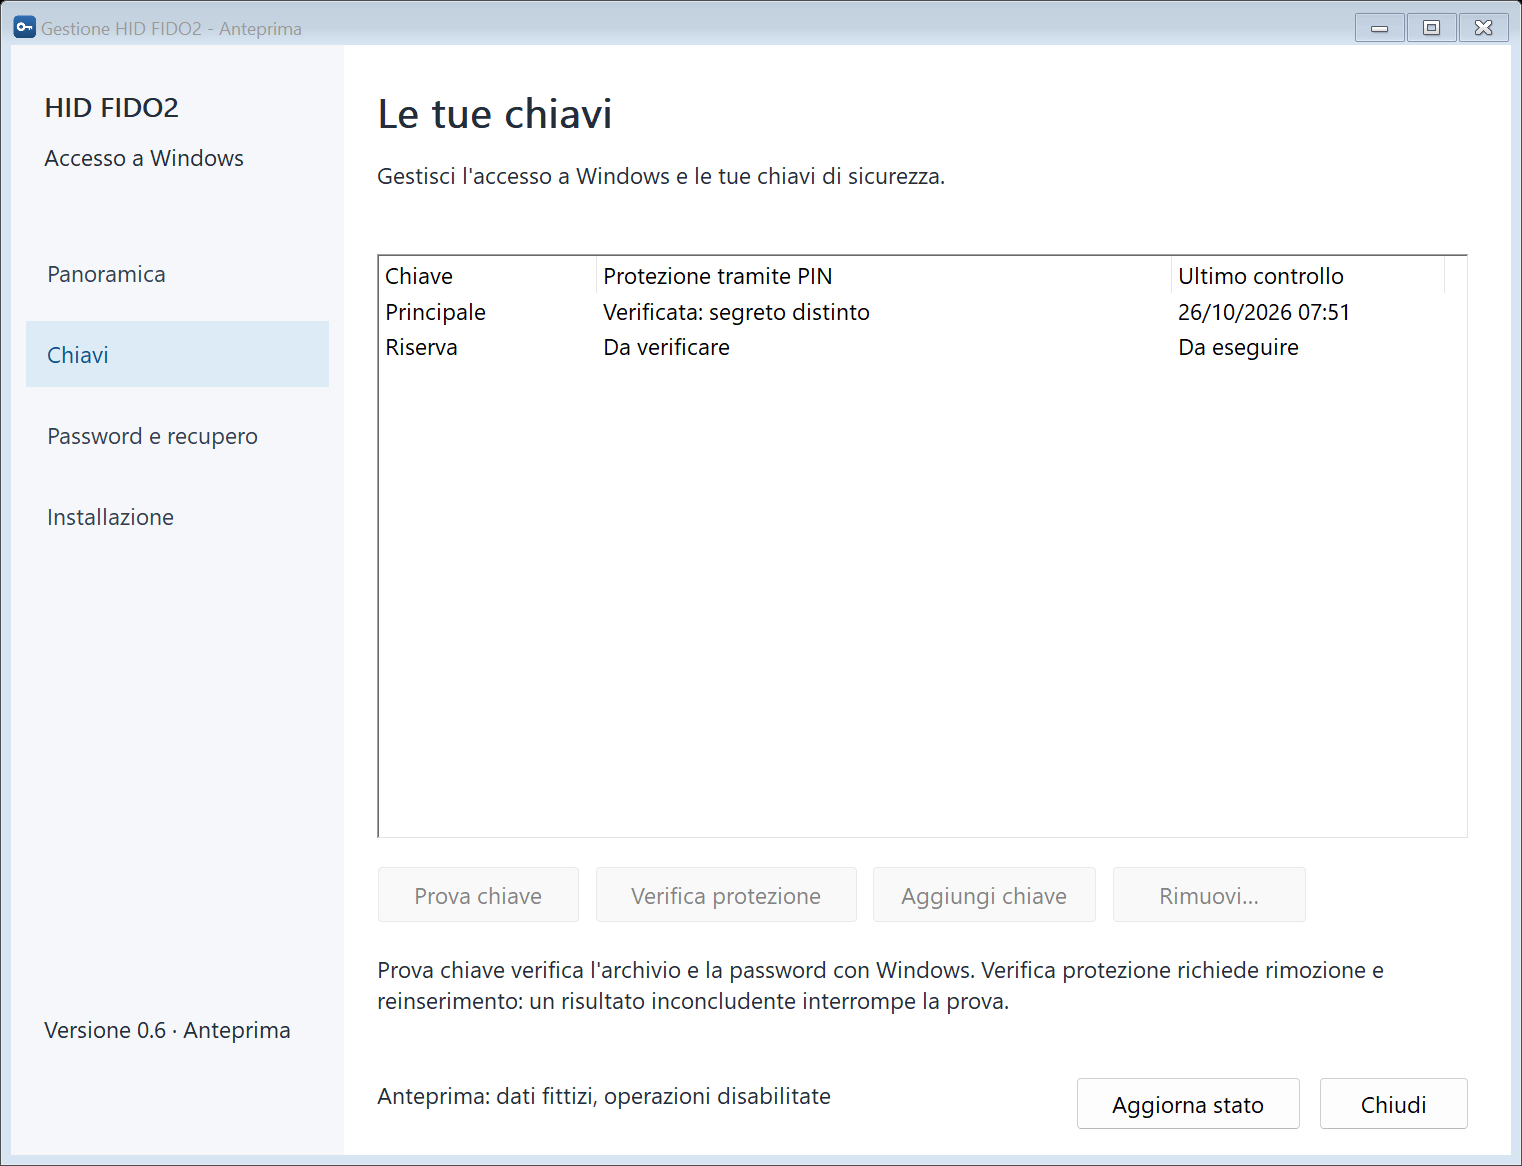
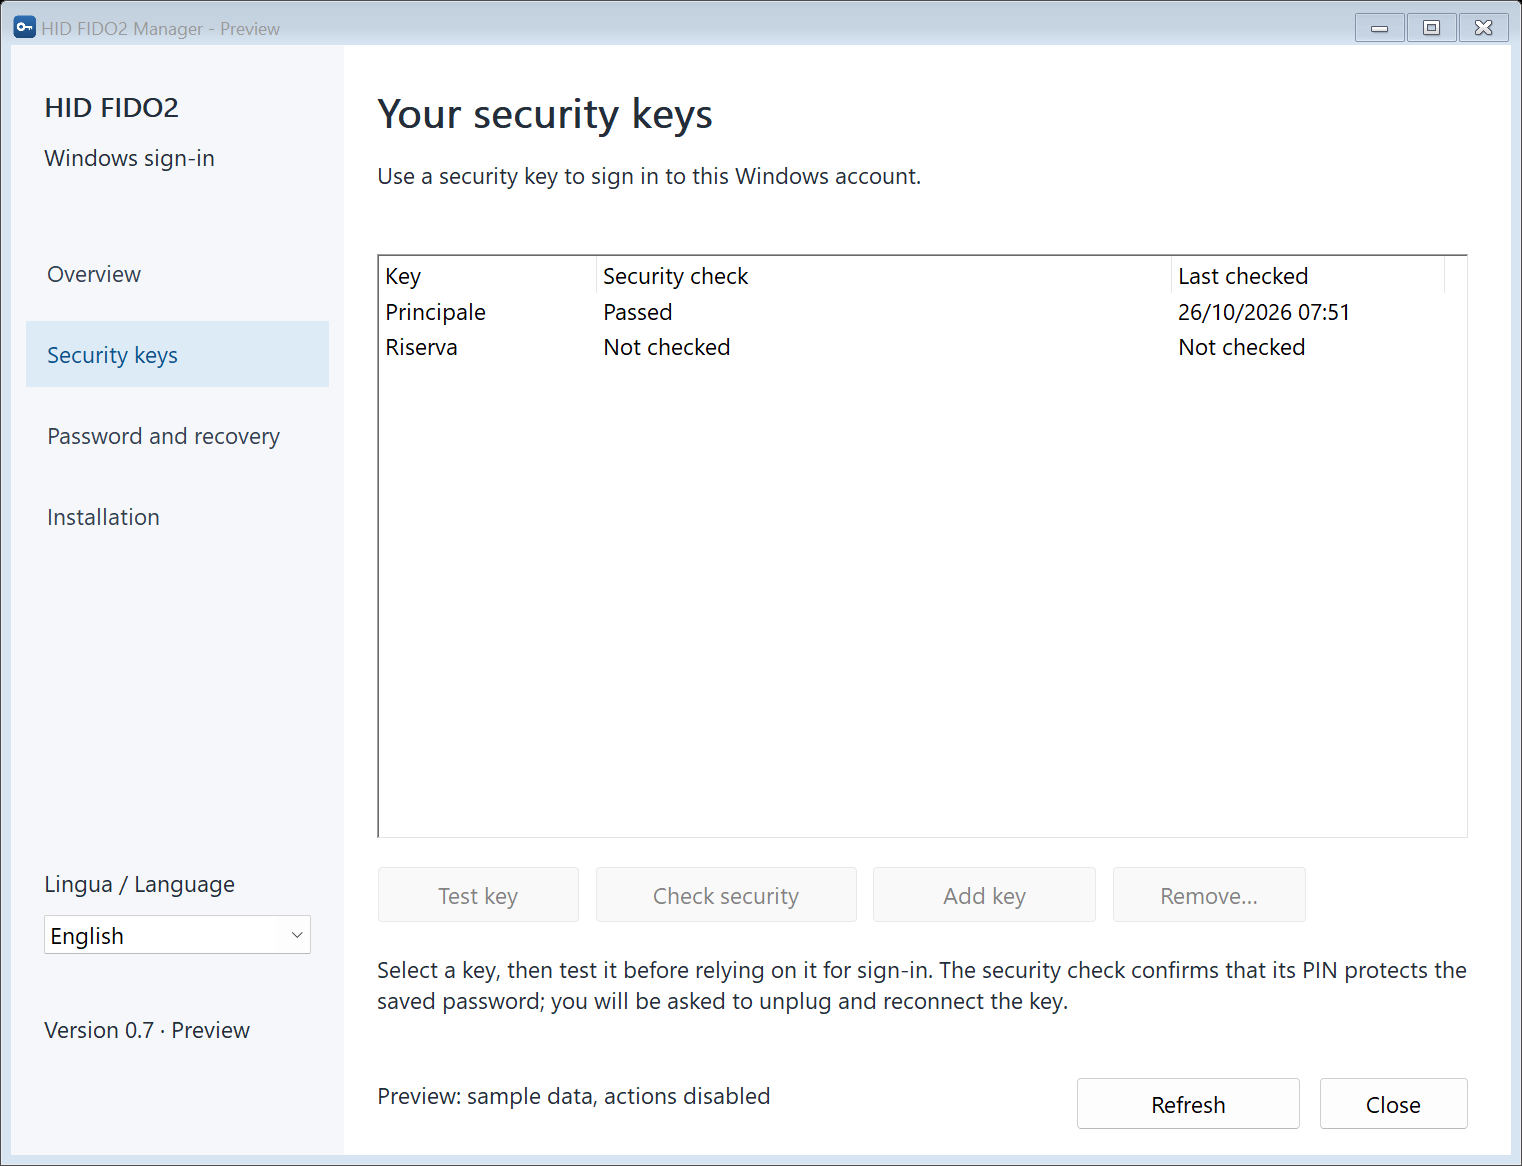
Refresh Medium article with English 0.7 screenshots

diff --git a/docs/medium-article/diagrams/build_diagrams.py b/docs/medium-article/diagrams/build_diagrams.py
@@ -193,7 +193,7 @@ def knowledge():
                                        'UAC and SID continuity', 'ETW TraceLogging']),
         ('Shipping it', ['Win32 UI and per-monitor DPI', 'manifests and visual styles', 'icons and version resources',
                          'package hashing and pinning', 'Authenticode and CMS signing', 'install, update, rollback',
-                         '18 automated test suites', 'recovery documentation']),
+                         '19 automated test suites', 'recovery documentation']),
     ]
     width, label_w, x0 = 1240, 230, 40
     y = 110
@@ -232,7 +232,7 @@ def cover():
          f'<rect x="{ox + 262}" y="{oy + 177}" width="18" height="26" fill="#ffffff"/>']
     b.append(text(540, 282, 'A STORY ABOUT CODING AGENTS', 22, 600, ACCENT))
     b.append(text(540, 356, 'One key, one PIN, one touch,', 50, 700))
-    b.append(text(540, 420, 'and 12,000 lines of C++', 50, 700))
+    b.append(text(540, 420, 'and 13,000 lines of C++', 50, 700))
     b.append(text(540, 486, 'FIDO2 sign-in for Windows that I could never', 25, 400, MUTED))
     b.append(text(540, 520, 'have built on my own.', 25, 400, MUTED))
     return svg(1400, 788, ''.join(b))

diff --git a/docs/medium-article/article.md b/docs/medium-article/article.md
@@ -1,8 +1,8 @@
 # I Could Never Have Built This Alone
 
-## How coding agents turned "unlock Windows with a USB security key" from a fantasy into 12,000 lines of working C++
+## How coding agents turned "unlock Windows with a USB security key" from a fantasy into 13,000 lines of working C++
 
-![A blue key icon next to the text: One key, one PIN, one touch, and 12,000 lines of C++](images/cover.png)
+![A blue key icon next to the text: One key, one PIN, one touch, and 13,000 lines of C++](images/cover.png)
 
 I wanted something that sounded simple. Plug in my FIDO2 security key, type
 its PIN, touch it, and my Windows laptop unlocks. No password typed at the
@@ -13,8 +13,9 @@ Windows can already sign in with a security key, but only for accounts
 managed through Microsoft Entra ID. For a plain local account there is
 nothing built in. So I built it: an open-source credential provider called
 [HID FIDO2 Windows Logon](https://github.com/emilius3m/HID-FIDO2-Windows-Logon).
-Today it unlocks my machine in about two and a half seconds, most of which is
-the time it takes me to touch the key.
+During development, an earlier build unlocked my machine in about two and a
+half seconds, including the wait for my touch. That was an observation on my
+device; each new release still needs its own unlock and restart sign-in tests.
 
 I want to be honest about one thing from the start, because it is the real
 point of this article. **I could not have built this without coding
@@ -85,7 +86,7 @@ re-encrypted, and both keys keep working.
 ![Vault: the primary and backup security keys each unwrap their own copy of the data key, which decrypts the Windows password](images/vault-keys.png)
 *Either key opens the vault; neither key ever sees the password.*
 
-## Sixteen steps in two and a half seconds
+## Sixteen steps to unlock Windows
 
 This is what happens between pressing **Sign in** and seeing the desktop.
 
@@ -135,8 +136,9 @@ My part of the work:
   security.
 - **Being the hands.** Agents cannot touch a USB key, unplug it and plug it back
   in, press Win+L or watch an LED. Every hardware test needed me.
-- **Running anything privileged.** The agents built and tested as a normal
-  user; I ran the steps that needed administrator rights.
+- **Approving privileged changes.** The agents prepared the builds and
+  installer; changes to Windows sign-in needed my explicit approval and
+  administrator authorization.
 - **Keeping secrets out of the conversation.** One rule held from day one: my
   PIN and my Windows password never went into a chat window. The agents built
   small native dialogs so that secrets were typed only on my machine, into the
@@ -146,21 +148,22 @@ My part of the work:
 
 The agents' part was everything else: reading the specifications, writing the
 CBOR encoder and the USB framing, the PIN protocol, the vault format, the
-credential provider, the installer, eighteen automated test suites, the
+credential provider, the installer, nineteen automated test suites, the
 documentation, and even the diagrams in this article, which are generated
 from a short Python script.
 
-![The native manager window, Overview page, in Italian, showing key sign-in as active with two registered keys](images/screenshot-manager-overview.png)
-*The native manager in demo mode, with synthetic data. The interface is in Italian, my language.*
+![Version 0.7 manager Overview page in English, showing example key sign-in status and the language selector](images/screenshot-manager-overview.png)
+*Version 0.7 in English, using demo data. The language selector switches between English and Italian immediately.*
 
-![The Keys page listing the Primary and Backup keys with their PIN-protection status](images/screenshot-manager-keys.png)
-*Each key records whether its protection was verified on real hardware. A successful sign-in never upgrades that claim on its own.*
+![English Security keys page showing the sample key names Principale and Riserva, with separate security-check results](images/screenshot-manager-keys.png)
+*Each key records whether its PIN protection was checked. The sample key names stay unchanged when the interface language changes; a successful sign-in never upgrades a missing security check.*
 
-![A small dialog asking for the security key PIN, warning that no automatic retries are made](images/screenshot-pin-dialog.png)
-*Secrets are typed into small local dialogs, never into a console or a chat. A wrong PIN counts on the key, so the software never retries one.*
+![English Password and recovery page with saved-password updates, encrypted backups and lost-key guidance](images/screenshot-manager-recovery.png)
+*The manager explains how to update the saved password, create an encrypted backup and recover after losing a key. This capture uses demo data.*
 
-I can't show you the sign-in tile itself: Windows does not allow screenshots
-of the secure sign-in desktop.
+PINs and Windows passwords are entered in separate native dialogs. A wrong
+PIN counts on the key, so the software never retries one automatically. The
+screenshots here show the management app with real actions disabled.
 
 ## Stories from the bench
 
@@ -215,8 +218,18 @@ Halfway through, the project went through a complete rewrite. The first
 versions relied on PowerShell scripts for installation and management. Version
 0.6 replaced all of them with native C++: a native management window, a
 package that verifies its own hashes before and after asking for administrator
-rights, and no script interpreter anywhere. Today it is about 8,500 lines of
-C++ plus 3,900 lines of tests.
+rights, and no script interpreter anywhere. Version 0.7 added Italian and
+English with a saved language preference, and rewrote the interface text for
+someone using the product rather than developing it. Today it is about 8,900
+non-blank lines of C++, including the built-in translations, plus 3,900 lines
+of tests.
+
+![English Installation page in version 0.7, with install, update, removal and recovery controls](images/screenshot-manager-installation.png)
+*Installation and recovery are part of the native manager. The English preview keeps the same behavior and sample data as the Italian version.*
+
+The nineteen automated suites passed for version 0.7, and installation was
+checked on the development device. Those checks do not replace testing a real
+Windows unlock and sign-in after restart with that release.
 
 That rewrite is the best example of what changed for me. A rewrite of that
 size is something you simply don't attempt alone, on a project nobody pays you

diff --git a/docs/medium-article/README.md b/docs/medium-article/README.md
@@ -5,23 +5,25 @@ coding agents. Its message: a project of this complexity would not exist
 without them, because the barrier was the knowledge each component required,
 not the typing.
 
-The story and copied manager screenshots describe version 0.6. Version 0.7
-adds the bilingual interface; see the repository READMEs for the current UI.
+The story includes the native rewrite in version 0.6 and the bilingual
+interface added in version 0.7. All four manager screenshots show version
+0.7 in English with synthetic demo data and real operations disabled.
 
 | Path | Content |
 | --- | --- |
-| [`article.md`](article.md) | Title, subtitle and text (about 2,100 words, 8 minutes) |
+| [`article.md`](article.md) | Title, subtitle and text (about 2,600 words, 10 minutes) |
 | `images/cover.png` | Cover; Medium uses the first image as the story preview |
 | `images/knowledge-map.png` | The specifications and techniques the project required |
 | `images/architecture.png` | Components and the setup and sign-in paths |
 | `images/vault-keys.png` | Data key wrapped separately by the primary and backup keys |
 | `images/unlock-sequence.png` | The 16 unlock steps, same order as [security-overview.md](../security-overview.md) |
-| `images/screenshot-*.png` | Native manager in demo mode (synthetic data) and the PIN dialog |
+| `images/screenshot-*.png` | Overview, Security keys, Password and recovery, Installation; all in English |
 | `diagrams/` | SVG sources and the script that generates cover and diagrams |
 
-The screenshots show the Italian interface. The manager captures come from
-[`docs/images`](../images/README.md); the PIN dialog is the one shown by
-`hid-fido2-vault.exe` during enrollment.
+The manager captures are copied from [`docs/images/en`](../images/en/).
+The old Italian PIN-dialog image has been replaced by the English Password
+and recovery page. Saved key labels such as `Principale` and `Riserva` are
+sample data and are not translated when changing the interface language.
 
 The diagrams distinguish the internal key secret from its encrypted derived
 output. The protected password remains reusable: the provider consumes its
@@ -48,12 +50,15 @@ limits.
 
 Before publishing, check that:
 
-- the personal statements are yours: Italian as your language, the two agents
-  used (Claude Code and Codex), the PIN and password never typed into a chat;
+- the personal statements are yours: the two agents used (Claude Code and
+  Codex), approval of privileged changes, the PIN and password never typed into a chat;
 - the closing link points to the published repository and, if you add a direct
   link to `docs/security-overview.md`, that the page is on the default branch;
-- figures still match the code: about 8,500 non-blank lines of C++ in `src` and
-  `include`, 3,900 in `tests`, 18 test suites registered in `CMakeLists.txt`.
+- figures still match the code: about 8,900 non-blank lines of C++ in `src` and
+  `include` (including the `.inc` translation catalog), 3,900 in `tests`, and
+  19 test suites registered in `CMakeLists.txt`. The rounded headline is 13,000.
+- the unlock timing refers to an earlier development build; it is not a
+  performance or end-to-end validation claim for version 0.7.
 
 ## Regenerating the images
 
@@ -64,3 +69,5 @@ python docs\medium-article\diagrams\build_diagrams.py --png
 The script uses only the Python standard library. It rewrites the SVGs and,
 with `--png`, renders each one to `images/` at 2x with headless Microsoft Edge.
 Medium does not accept SVG uploads. Screenshots are copied, not generated.
+When refreshing them, copy all four English manager captures from
+`docs/images/en/` to the matching `images/screenshot-manager-*.png` files.
